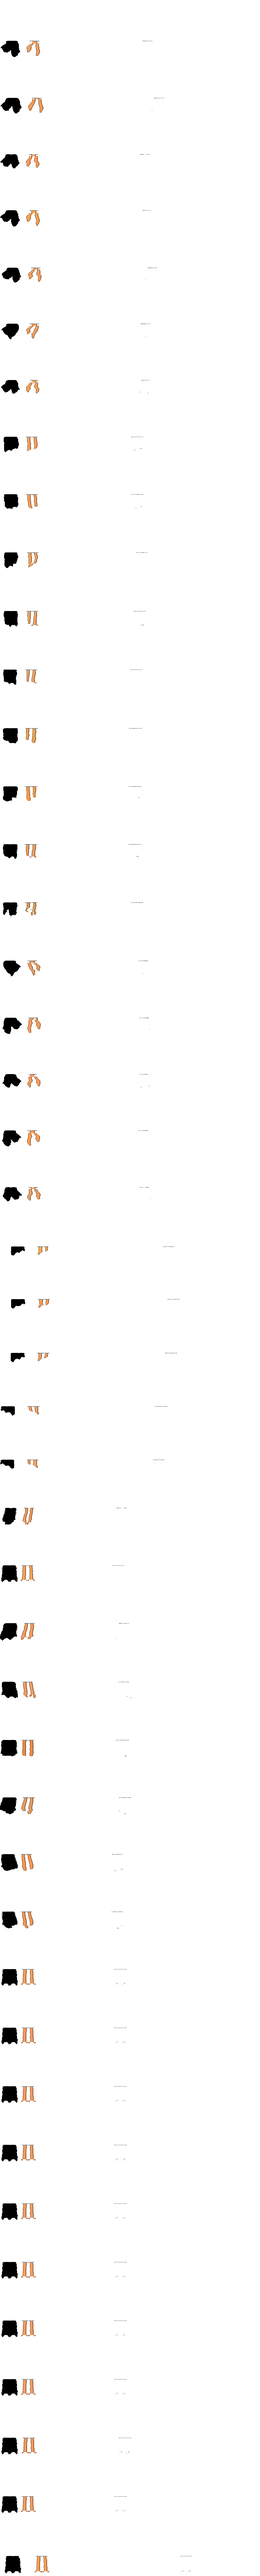
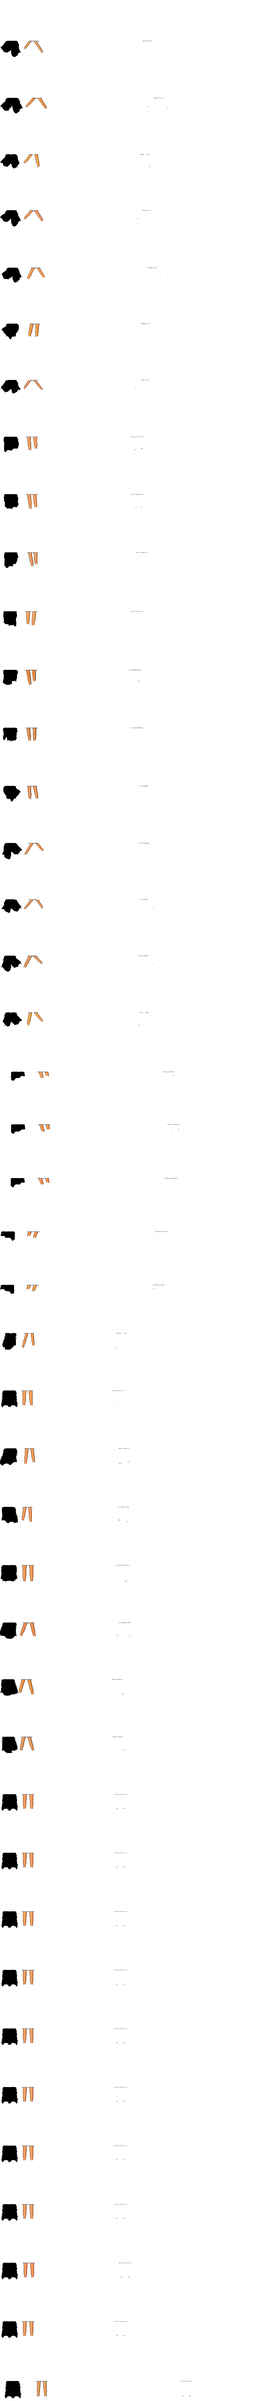
Realistiske event-møbler og nye ben

diff --git a/js/garderobe-stor.js b/js/garderobe-stor.js
@@ -12,8 +12,8 @@
 // =============================================================
 (function () {
   if (typeof FIGURER === "undefined" || !FIGURER.pige || !FIGURER.dreng) return;
-  const STIL_KORT = {"pige-shorts":{"pige-gaa-hoejre-1":0,"pige-gaa-hoejre-2":156,"pige-gaa-hoejre-3":309,"pige-gaa-hoejre-4":459,"pige-gaa-hoejre-5":613,"pige-gaa-hoejre-s1":764,"pige-gaa-hoejre-s3":918,"pige-gaa-ned-1":1068,"pige-gaa-ned-2":1225,"pige-gaa-ned-3":1382,"pige-gaa-ned-4":1540,"pige-gaa-ned-5":1697,"pige-gaa-op-1":1854,"pige-gaa-op-2":2011,"pige-gaa-op-3":2168,"pige-gaa-op-4":2325,"pige-gaa-venstre-1":2482,"pige-gaa-venstre-2":2636,"pige-gaa-venstre-3":2790,"pige-gaa-venstre-4":2940,"pige-gaa-venstre-s3":3095,"pige-sidder-hoejre":3245,"pige-sidder-ned":3388,"pige-sidder-ned-hoejre":3532,"pige-sidder-ned-venstre":3676,"pige-sidder-venstre":3820,"pige-staa-hoejre":3963,"pige-staa-ned":4117,"pige-staa-ned-hoejre":4274,"pige-staa-ned-venstre":4431,"pige-staa-op":4588,"pige-staa-op-hoejre":4743,"pige-staa-op-venstre":4897,"pige-staa-venstre":5051,"pige-udtryk-blink":5205,"pige-udtryk-flirt":5363,"pige-udtryk-glad":5521,"pige-udtryk-grin":5679,"pige-udtryk-ked":5837,"pige-udtryk-neutral":5995,"pige-udtryk-overrasket":6153,"pige-udtryk-smil":6311,"pige-udtryk-traet":6469,"pige-udtryk-vred":6627,"pige-vink":6785},"pige-nederdel":{"pige-gaa-hoejre-1":0,"pige-gaa-hoejre-2":156,"pige-gaa-hoejre-3":309,"pige-gaa-hoejre-4":459,"pige-gaa-hoejre-5":613,"pige-gaa-hoejre-s1":764,"pige-gaa-hoejre-s3":918,"pige-gaa-ned-1":1068,"pige-gaa-ned-2":1225,"pige-gaa-ned-3":1382,"pige-gaa-ned-4":1540,"pige-gaa-ned-5":1697,"pige-gaa-op-1":1854,"pige-gaa-op-2":2011,"pige-gaa-op-3":2168,"pige-gaa-op-4":2325,"pige-gaa-venstre-1":2482,"pige-gaa-venstre-2":2636,"pige-gaa-venstre-3":2790,"pige-gaa-venstre-4":2940,"pige-gaa-venstre-s3":3095,"pige-sidder-hoejre":3245,"pige-sidder-ned":3388,"pige-sidder-ned-hoejre":3532,"pige-sidder-ned-venstre":3676,"pige-sidder-venstre":3820,"pige-staa-hoejre":3963,"pige-staa-ned":4117,"pige-staa-ned-hoejre":4274,"pige-staa-ned-venstre":4431,"pige-staa-op":4588,"pige-staa-op-hoejre":4743,"pige-staa-op-venstre":4897,"pige-staa-venstre":5051,"pige-udtryk-blink":5205,"pige-udtryk-flirt":5363,"pige-udtryk-glad":5521,"pige-udtryk-grin":5679,"pige-udtryk-ked":5837,"pige-udtryk-neutral":5995,"pige-udtryk-overrasket":6153,"pige-udtryk-smil":6311,"pige-udtryk-traet":6469,"pige-udtryk-vred":6627,"pige-vink":6785},"pige-kjole":{"pige-gaa-hoejre-1":0,"pige-gaa-hoejre-2":156,"pige-gaa-hoejre-3":309,"pige-gaa-hoejre-4":459,"pige-gaa-hoejre-5":613,"pige-gaa-hoejre-s1":764,"pige-gaa-hoejre-s3":918,"pige-gaa-ned-1":1068,"pige-gaa-ned-2":1225,"pige-gaa-ned-3":1382,"pige-gaa-ned-4":1540,"pige-gaa-ned-5":1697,"pige-gaa-op-1":1854,"pige-gaa-op-2":2011,"pige-gaa-op-3":2168,"pige-gaa-op-4":2325,"pige-gaa-venstre-1":2482,"pige-gaa-venstre-2":2636,"pige-gaa-venstre-3":2790,"pige-gaa-venstre-4":2940,"pige-gaa-venstre-s3":3095,"pige-sidder-hoejre":3245,"pige-sidder-ned":3388,"pige-sidder-ned-hoejre":3532,"pige-sidder-ned-venstre":3676,"pige-sidder-venstre":3820,"pige-staa-hoejre":3963,"pige-staa-ned":4117,"pige-staa-ned-hoejre":4274,"pige-staa-ned-venstre":4431,"pige-staa-op":4588,"pige-staa-op-hoejre":4743,"pige-staa-op-venstre":4897,"pige-staa-venstre":5051,"pige-udtryk-blink":5205,"pige-udtryk-flirt":5363,"pige-udtryk-glad":5521,"pige-udtryk-grin":5679,"pige-udtryk-ked":5837,"pige-udtryk-neutral":5995,"pige-udtryk-overrasket":6153,"pige-udtryk-smil":6311,"pige-udtryk-traet":6469,"pige-udtryk-vred":6627,"pige-vink":6785},"pige-ekstralangt":{"pige-gaa-hoejre-1":0,"pige-gaa-hoejre-2":156,"pige-gaa-hoejre-3":309,"pige-gaa-hoejre-4":459,"pige-gaa-hoejre-5":613,"pige-gaa-hoejre-s1":764,"pige-gaa-hoejre-s3":918,"pige-gaa-ned-1":1068,"pige-gaa-ned-2":1225,"pige-gaa-ned-3":1382,"pige-gaa-ned-4":1540,"pige-gaa-ned-5":1697,"pige-gaa-op-1":1854,"pige-gaa-op-2":2011,"pige-gaa-op-3":2168,"pige-gaa-op-4":2325,"pige-gaa-venstre-1":2482,"pige-gaa-venstre-2":2636,"pige-gaa-venstre-3":2790,"pige-gaa-venstre-4":2940,"pige-gaa-venstre-s3":3095,"pige-sidder-hoejre":3245,"pige-sidder-ned":3388,"pige-sidder-ned-hoejre":3532,"pige-sidder-ned-venstre":3676,"pige-sidder-venstre":3820,"pige-staa-hoejre":3963,"pige-staa-ned":4117,"pige-staa-ned-hoejre":4274,"pige-staa-ned-venstre":4431,"pige-staa-op":4588,"pige-staa-op-hoejre":4743,"pige-staa-op-venstre":4897,"pige-staa-venstre":5051,"pige-udtryk-blink":5205,"pige-udtryk-flirt":5363,"pige-udtryk-glad":5521,"pige-udtryk-grin":5679,"pige-udtryk-ked":5837,"pige-udtryk-neutral":5995,"pige-udtryk-overrasket":6153,"pige-udtryk-smil":6311,"pige-udtryk-traet":6469,"pige-udtryk-vred":6627,"pige-vink":6785},"pige-mellem":{"pige-gaa-hoejre-1":0,"pige-gaa-hoejre-2":156,"pige-gaa-hoejre-3":309,"pige-gaa-hoejre-4":459,"pige-gaa-hoejre-5":613,"pige-gaa-hoejre-s1":764,"pige-gaa-hoejre-s3":918,"pige-gaa-ned-1":1068,"pige-gaa-ned-2":1225,"pige-gaa-ned-3":1382,"pige-gaa-ned-4":1540,"pige-gaa-ned-5":1697,"pige-gaa-op-1":1854,"pige-gaa-op-2":2011,"pige-gaa-op-3":2168,"pige-gaa-op-4":2325,"pige-gaa-venstre-1":2482,"pige-gaa-venstre-2":2636,"pige-gaa-venstre-3":2790,"pige-gaa-venstre-4":2940,"pige-gaa-venstre-s3":3095,"pige-sidder-hoejre":3245,"pige-sidder-ned":3388,"pige-sidder-ned-hoejre":3532,"pige-sidder-ned-venstre":3676,"pige-sidder-venstre":3820,"pige-staa-hoejre":3963,"pige-staa-ned":4117,"pige-staa-ned-hoejre":4274,"pige-staa-ned-venstre":4431,"pige-staa-op":4588,"pige-staa-op-hoejre":4743,"pige-staa-op-venstre":4897,"pige-staa-venstre":5051,"pige-udtryk-blink":5205,"pige-udtryk-flirt":5363,"pige-udtryk-glad":5521,"pige-udtryk-grin":5679,"pige-udtryk-ked":5837,"pige-udtryk-neutral":5995,"pige-udtryk-overrasket":6153,"pige-udtryk-smil":6311,"pige-udtryk-traet":6469,"pige-udtryk-vred":6627,"pige-vink":6785},"pige-skulder":{"pige-gaa-hoejre-1":0,"pige-gaa-hoejre-2":156,"pige-gaa-hoejre-3":309,"pige-gaa-hoejre-4":459,"pige-gaa-hoejre-5":613,"pige-gaa-hoejre-s1":764,"pige-gaa-hoejre-s3":918,"pige-gaa-ned-1":1068,"pige-gaa-ned-2":1225,"pige-gaa-ned-3":1382,"pige-gaa-ned-4":1540,"pige-gaa-ned-5":1697,"pige-gaa-op-1":1854,"pige-gaa-op-2":2011,"pige-gaa-op-3":2168,"pige-gaa-op-4":2325,"pige-gaa-venstre-1":2482,"pige-gaa-venstre-2":2636,"pige-gaa-venstre-3":2790,"pige-gaa-venstre-4":2940,"pige-gaa-venstre-s3":3095,"pige-sidder-hoejre":3245,"pige-sidder-ned":3388,"pige-sidder-ned-hoejre":3532,"pige-sidder-ned-venstre":3676,"pige-sidder-venstre":3820,"pige-staa-hoejre":3963,"pige-staa-ned":4117,"pige-staa-ned-hoejre":4274,"pige-staa-ned-venstre":4431,"pige-staa-op":4588,"pige-staa-op-hoejre":4743,"pige-staa-op-venstre":4897,"pige-staa-venstre":5051,"pige-udtryk-blink":5205,"pige-udtryk-flirt":5363,"pige-udtryk-glad":5521,"pige-udtryk-grin":5679,"pige-udtryk-ked":5837,"pige-udtryk-neutral":5995,"pige-udtryk-overrasket":6153,"pige-udtryk-smil":6311,"pige-udtryk-traet":6469,"pige-udtryk-vred":6627,"pige-vink":6785},"pige-bob":{"pige-gaa-hoejre-1":0,"pige-gaa-hoejre-2":156,"pige-gaa-hoejre-3":309,"pige-gaa-hoejre-4":459,"pige-gaa-hoejre-5":613,"pige-gaa-hoejre-s1":764,"pige-gaa-hoejre-s3":918,"pige-gaa-ned-1":1068,"pige-gaa-ned-2":1225,"pige-gaa-ned-3":1382,"pige-gaa-ned-4":1540,"pige-gaa-ned-5":1697,"pige-gaa-op-1":1854,"pige-gaa-op-2":2011,"pige-gaa-op-3":2168,"pige-gaa-op-4":2325,"pige-gaa-venstre-1":2482,"pige-gaa-venstre-2":2636,"pige-gaa-venstre-3":2790,"pige-gaa-venstre-4":2940,"pige-gaa-venstre-s3":3095,"pige-sidder-hoejre":3245,"pige-sidder-ned":3388,"pige-sidder-ned-hoejre":3532,"pige-sidder-ned-venstre":3676,"pige-sidder-venstre":3820,"pige-staa-hoejre":3963,"pige-staa-ned":4117,"pige-staa-ned-hoejre":4274,"pige-staa-ned-venstre":4431,"pige-staa-op":4588,"pige-staa-op-hoejre":4743,"pige-staa-op-venstre":4897,"pige-staa-venstre":5051,"pige-udtryk-blink":5205,"pige-udtryk-flirt":5363,"pige-udtryk-glad":5521,"pige-udtryk-grin":5679,"pige-udtryk-ked":5837,"pige-udtryk-neutral":5995,"pige-udtryk-overrasket":6153,"pige-udtryk-smil":6311,"pige-udtryk-traet":6469,"pige-udtryk-vred":6627,"pige-vink":6785},"pige-hestehale":{"pige-gaa-hoejre-1":0,"pige-gaa-hoejre-2":156,"pige-gaa-hoejre-3":309,"pige-gaa-hoejre-4":459,"pige-gaa-hoejre-5":613,"pige-gaa-hoejre-s1":764,"pige-gaa-hoejre-s3":918,"pige-gaa-ned-1":1068,"pige-gaa-ned-2":1225,"pige-gaa-ned-3":1382,"pige-gaa-ned-4":1540,"pige-gaa-ned-5":1697,"pige-gaa-op-1":1854,"pige-gaa-op-2":2011,"pige-gaa-op-3":2168,"pige-gaa-op-4":2325,"pige-gaa-venstre-1":2482,"pige-gaa-venstre-2":2636,"pige-gaa-venstre-3":2790,"pige-gaa-venstre-4":2940,"pige-gaa-venstre-s3":3095,"pige-sidder-hoejre":3245,"pige-sidder-ned":3388,"pige-sidder-ned-hoejre":3532,"pige-sidder-ned-venstre":3676,"pige-sidder-venstre":3820,"pige-staa-hoejre":3963,"pige-staa-ned":4117,"pige-staa-ned-hoejre":4274,"pige-staa-ned-venstre":4431,"pige-staa-op":4588,"pige-staa-op-hoejre":4743,"pige-staa-op-venstre":4897,"pige-staa-venstre":5051,"pige-udtryk-blink":5205,"pige-udtryk-flirt":5363,"pige-udtryk-glad":5521,"pige-udtryk-grin":5679,"pige-udtryk-ked":5837,"pige-udtryk-neutral":5995,"pige-udtryk-overrasket":6153,"pige-udtryk-smil":6311,"pige-udtryk-traet":6469,"pige-udtryk-vred":6627,"pige-vink":6785},"pige-fletninger":{"pige-gaa-hoejre-1":0,"pige-gaa-hoejre-2":156,"pige-gaa-hoejre-3":309,"pige-gaa-hoejre-4":459,"pige-gaa-hoejre-5":613,"pige-gaa-hoejre-s1":764,"pige-gaa-hoejre-s3":918,"pige-gaa-ned-1":1068,"pige-gaa-ned-2":1225,"pige-gaa-ned-3":1382,"pige-gaa-ned-4":1540,"pige-gaa-ned-5":1697,"pige-gaa-op-1":1854,"pige-gaa-op-2":2011,"pige-gaa-op-3":2168,"pige-gaa-op-4":2325,"pige-gaa-venstre-1":2482,"pige-gaa-venstre-2":2636,"pige-gaa-venstre-3":2790,"pige-gaa-venstre-4":2940,"pige-gaa-venstre-s3":3095,"pige-sidder-hoejre":3245,"pige-sidder-ned":3388,"pige-sidder-ned-hoejre":3532,"pige-sidder-ned-venstre":3676,"pige-sidder-venstre":3820,"pige-staa-hoejre":3963,"pige-staa-ned":4117,"pige-staa-ned-hoejre":4274,"pige-staa-ned-venstre":4431,"pige-staa-op":4588,"pige-staa-op-hoejre":4743,"pige-staa-op-venstre":4897,"pige-staa-venstre":5051,"pige-udtryk-blink":5205,"pige-udtryk-flirt":5363,"pige-udtryk-glad":5521,"pige-udtryk-grin":5679,"pige-udtryk-ked":5837,"pige-udtryk-neutral":5995,"pige-udtryk-overrasket":6153,"pige-udtryk-smil":6311,"pige-udtryk-traet":6469,"pige-udtryk-vred":6627,"pige-vink":6785},"dreng-haar":{"dreng-gaa-hoejre-1":0,"dreng-gaa-hoejre-2":131,"dreng-gaa-hoejre-3":262,"dreng-gaa-hoejre-4":392,"dreng-gaa-hoejre-5":522,"dreng-gaa-hoejre-s1":652,"dreng-gaa-hoejre-s2":783,"dreng-gaa-ned-1":913,"dreng-gaa-ned-2":1048,"dreng-gaa-ned-3":1183,"dreng-gaa-ned-4":1318,"dreng-gaa-ned-5":1453,"dreng-gaa-op-1":1588,"dreng-gaa-op-2":1722,"dreng-gaa-op-3":1856,"dreng-gaa-op-4":1988,"dreng-gaa-op-5":2122,"dreng-gaa-op-s4":2256,"dreng-gaa-venstre-1":2390,"dreng-gaa-venstre-2":2521,"dreng-gaa-venstre-3":2651,"dreng-gaa-venstre-4":2781,"dreng-gaa-venstre-s2":2911,"dreng-sidder-ned-hoejre":3042,"dreng-sidder-ned-venstre":3181,"dreng-staa-hoejre":3320,"dreng-staa-ned":3452,"dreng-staa-ned-hoejre":3587,"dreng-staa-ned-venstre":3721,"dreng-staa-op":3856,"dreng-staa-op-hoejre":3989,"dreng-staa-op-venstre":4122,"dreng-staa-venstre":4255,"dreng-udtryk-blink":4388,"dreng-udtryk-flirt":4522,"dreng-udtryk-glad":4656,"dreng-udtryk-grin":4790,"dreng-udtryk-ked":4924,"dreng-udtryk-neutral":5058,"dreng-udtryk-overrasket":5192,"dreng-udtryk-smil":5326,"dreng-udtryk-traet":5460,"dreng-udtryk-vred":5594},"dreng-shorts":{"dreng-gaa-hoejre-1":0,"dreng-gaa-hoejre-2":131,"dreng-gaa-hoejre-3":262,"dreng-gaa-hoejre-4":392,"dreng-gaa-hoejre-5":522,"dreng-gaa-hoejre-s1":652,"dreng-gaa-hoejre-s2":783,"dreng-gaa-ned-1":913,"dreng-gaa-ned-2":1048,"dreng-gaa-ned-3":1183,"dreng-gaa-ned-4":1318,"dreng-gaa-ned-5":1453,"dreng-gaa-op-1":1588,"dreng-gaa-op-2":1722,"dreng-gaa-op-3":1856,"dreng-gaa-op-4":1988,"dreng-gaa-op-5":2122,"dreng-gaa-op-s4":2256,"dreng-gaa-venstre-1":2390,"dreng-gaa-venstre-2":2521,"dreng-gaa-venstre-3":2651,"dreng-gaa-venstre-4":2781,"dreng-gaa-venstre-s2":2911,"dreng-sidder-ned-hoejre":3042,"dreng-sidder-ned-venstre":3181,"dreng-staa-hoejre":3320,"dreng-staa-ned":3452,"dreng-staa-ned-hoejre":3587,"dreng-staa-ned-venstre":3721,"dreng-staa-op":3856,"dreng-staa-op-hoejre":3989,"dreng-staa-op-venstre":4122,"dreng-staa-venstre":4255,"dreng-udtryk-blink":4388,"dreng-udtryk-flirt":4522,"dreng-udtryk-glad":4656,"dreng-udtryk-grin":4790,"dreng-udtryk-ked":4924,"dreng-udtryk-neutral":5058,"dreng-udtryk-overrasket":5192,"dreng-udtryk-smil":5326,"dreng-udtryk-traet":5460,"dreng-udtryk-vred":5594},"dreng-halvlangt":{"dreng-staa-ned":0,"dreng-staa-ned-hoejre":135,"dreng-staa-ned-venstre":269,"dreng-udtryk-blink":404,"dreng-udtryk-flirt":538,"dreng-udtryk-glad":672,"dreng-udtryk-grin":806,"dreng-udtryk-ked":940,"dreng-udtryk-neutral":1074,"dreng-udtryk-overrasket":1208,"dreng-udtryk-smil":1342,"dreng-udtryk-traet":1476,"dreng-udtryk-vred":1610},"dreng-langt":{"dreng-gaa-hoejre-1":0,"dreng-gaa-hoejre-2":131,"dreng-gaa-hoejre-3":262,"dreng-gaa-hoejre-4":392,"dreng-gaa-hoejre-5":522,"dreng-gaa-hoejre-s1":652,"dreng-gaa-hoejre-s2":783,"dreng-gaa-ned-1":913,"dreng-gaa-ned-2":1048,"dreng-gaa-ned-3":1183,"dreng-gaa-ned-4":1318,"dreng-gaa-ned-5":1453,"dreng-gaa-op-1":1588,"dreng-gaa-op-2":1722,"dreng-gaa-op-3":1856,"dreng-gaa-op-4":1988,"dreng-gaa-op-5":2122,"dreng-gaa-op-s4":2256,"dreng-gaa-venstre-1":2390,"dreng-gaa-venstre-2":2521,"dreng-gaa-venstre-3":2651,"dreng-gaa-venstre-4":2781,"dreng-gaa-venstre-s2":2911,"dreng-sidder-ned-hoejre":3042,"dreng-sidder-ned-venstre":3181,"dreng-staa-hoejre":3320,"dreng-staa-ned":3452,"dreng-staa-ned-hoejre":3587,"dreng-staa-ned-venstre":3721,"dreng-staa-op":3856,"dreng-staa-op-hoejre":3989,"dreng-staa-op-venstre":4122,"dreng-staa-venstre":4255,"dreng-udtryk-blink":4388,"dreng-udtryk-flirt":4522,"dreng-udtryk-glad":4656,"dreng-udtryk-grin":4790,"dreng-udtryk-ked":4924,"dreng-udtryk-neutral":5058,"dreng-udtryk-overrasket":5192,"dreng-udtryk-smil":5326,"dreng-udtryk-traet":5460,"dreng-udtryk-vred":5594}};
-  const STIL_V = "1";
+  const STIL_KORT = {"pige-shorts":{"pige-gaa-hoejre-1":0,"pige-gaa-hoejre-2":156,"pige-gaa-hoejre-3":309,"pige-gaa-hoejre-4":459,"pige-gaa-hoejre-5":613,"pige-gaa-hoejre-s1":764,"pige-gaa-hoejre-s3":918,"pige-gaa-ned-1":1068,"pige-gaa-ned-2":1225,"pige-gaa-ned-3":1382,"pige-gaa-ned-5":1540,"pige-gaa-op-2":1697,"pige-gaa-op-4":1854,"pige-gaa-venstre-1":2011,"pige-gaa-venstre-2":2165,"pige-gaa-venstre-3":2319,"pige-gaa-venstre-4":2469,"pige-gaa-venstre-s3":2624,"pige-sidder-hoejre":2774,"pige-sidder-ned":2917,"pige-sidder-ned-hoejre":3061,"pige-sidder-ned-venstre":3205,"pige-sidder-venstre":3349,"pige-staa-hoejre":3492,"pige-staa-ned":3646,"pige-staa-ned-hoejre":3803,"pige-staa-ned-venstre":3960,"pige-staa-op":4117,"pige-staa-op-hoejre":4272,"pige-staa-op-venstre":4426,"pige-staa-venstre":4580,"pige-udtryk-blink":4734,"pige-udtryk-flirt":4892,"pige-udtryk-glad":5050,"pige-udtryk-grin":5208,"pige-udtryk-ked":5366,"pige-udtryk-neutral":5524,"pige-udtryk-overrasket":5682,"pige-udtryk-smil":5840,"pige-udtryk-traet":5998,"pige-udtryk-vred":6156,"pige-vink":6314},"pige-nederdel":{"pige-gaa-hoejre-1":0,"pige-gaa-hoejre-2":156,"pige-gaa-hoejre-3":309,"pige-gaa-hoejre-4":459,"pige-gaa-hoejre-5":613,"pige-gaa-hoejre-s1":764,"pige-gaa-hoejre-s3":918,"pige-gaa-ned-1":1068,"pige-gaa-ned-2":1225,"pige-gaa-ned-3":1382,"pige-gaa-ned-5":1540,"pige-gaa-op-2":1697,"pige-gaa-op-4":1854,"pige-gaa-venstre-1":2011,"pige-gaa-venstre-2":2165,"pige-gaa-venstre-3":2319,"pige-gaa-venstre-4":2469,"pige-gaa-venstre-s3":2624,"pige-sidder-hoejre":2774,"pige-sidder-ned":2917,"pige-sidder-ned-hoejre":3061,"pige-sidder-ned-venstre":3205,"pige-sidder-venstre":3349,"pige-staa-hoejre":3492,"pige-staa-ned":3646,"pige-staa-ned-hoejre":3803,"pige-staa-ned-venstre":3960,"pige-staa-op":4117,"pige-staa-op-hoejre":4272,"pige-staa-op-venstre":4426,"pige-staa-venstre":4580,"pige-udtryk-blink":4734,"pige-udtryk-flirt":4892,"pige-udtryk-glad":5050,"pige-udtryk-grin":5208,"pige-udtryk-ked":5366,"pige-udtryk-neutral":5524,"pige-udtryk-overrasket":5682,"pige-udtryk-smil":5840,"pige-udtryk-traet":5998,"pige-udtryk-vred":6156,"pige-vink":6314},"pige-kjole":{"pige-gaa-hoejre-1":0,"pige-gaa-hoejre-2":156,"pige-gaa-hoejre-3":309,"pige-gaa-hoejre-4":459,"pige-gaa-hoejre-5":613,"pige-gaa-hoejre-s1":764,"pige-gaa-hoejre-s3":918,"pige-gaa-ned-1":1068,"pige-gaa-ned-2":1225,"pige-gaa-ned-3":1382,"pige-gaa-ned-5":1540,"pige-gaa-op-2":1697,"pige-gaa-op-4":1854,"pige-gaa-venstre-1":2011,"pige-gaa-venstre-2":2165,"pige-gaa-venstre-3":2319,"pige-gaa-venstre-4":2469,"pige-gaa-venstre-s3":2624,"pige-sidder-hoejre":2774,"pige-sidder-ned":2917,"pige-sidder-ned-hoejre":3061,"pige-sidder-ned-venstre":3205,"pige-sidder-venstre":3349,"pige-staa-hoejre":3492,"pige-staa-ned":3646,"pige-staa-ned-hoejre":3803,"pige-staa-ned-venstre":3960,"pige-staa-op":4117,"pige-staa-op-hoejre":4272,"pige-staa-op-venstre":4426,"pige-staa-venstre":4580,"pige-udtryk-blink":4734,"pige-udtryk-flirt":4892,"pige-udtryk-glad":5050,"pige-udtryk-grin":5208,"pige-udtryk-ked":5366,"pige-udtryk-neutral":5524,"pige-udtryk-overrasket":5682,"pige-udtryk-smil":5840,"pige-udtryk-traet":5998,"pige-udtryk-vred":6156,"pige-vink":6314},"pige-ekstralangt":{"pige-gaa-hoejre-1":0,"pige-gaa-hoejre-2":156,"pige-gaa-hoejre-3":309,"pige-gaa-hoejre-4":459,"pige-gaa-hoejre-5":613,"pige-gaa-hoejre-s1":764,"pige-gaa-hoejre-s3":918,"pige-gaa-ned-1":1068,"pige-gaa-ned-2":1225,"pige-gaa-ned-3":1382,"pige-gaa-ned-4":1540,"pige-gaa-ned-5":1697,"pige-gaa-op-1":1854,"pige-gaa-op-2":2011,"pige-gaa-op-3":2168,"pige-gaa-op-4":2325,"pige-gaa-venstre-1":2482,"pige-gaa-venstre-2":2636,"pige-gaa-venstre-3":2790,"pige-gaa-venstre-4":2940,"pige-gaa-venstre-s3":3095,"pige-sidder-hoejre":3245,"pige-sidder-ned":3388,"pige-sidder-ned-hoejre":3532,"pige-sidder-ned-venstre":3676,"pige-sidder-venstre":3820,"pige-staa-hoejre":3963,"pige-staa-ned":4117,"pige-staa-ned-hoejre":4274,"pige-staa-ned-venstre":4431,"pige-staa-op":4588,"pige-staa-op-hoejre":4743,"pige-staa-op-venstre":4897,"pige-staa-venstre":5051,"pige-udtryk-blink":5205,"pige-udtryk-flirt":5363,"pige-udtryk-glad":5521,"pige-udtryk-grin":5679,"pige-udtryk-ked":5837,"pige-udtryk-neutral":5995,"pige-udtryk-overrasket":6153,"pige-udtryk-smil":6311,"pige-udtryk-traet":6469,"pige-udtryk-vred":6627,"pige-vink":6785},"pige-mellem":{"pige-gaa-hoejre-1":0,"pige-gaa-hoejre-2":156,"pige-gaa-hoejre-3":309,"pige-gaa-hoejre-4":459,"pige-gaa-hoejre-5":613,"pige-gaa-hoejre-s1":764,"pige-gaa-hoejre-s3":918,"pige-gaa-ned-1":1068,"pige-gaa-ned-2":1225,"pige-gaa-ned-3":1382,"pige-gaa-ned-4":1540,"pige-gaa-ned-5":1697,"pige-gaa-op-1":1854,"pige-gaa-op-2":2011,"pige-gaa-op-3":2168,"pige-gaa-op-4":2325,"pige-gaa-venstre-1":2482,"pige-gaa-venstre-2":2636,"pige-gaa-venstre-3":2790,"pige-gaa-venstre-4":2940,"pige-gaa-venstre-s3":3095,"pige-sidder-hoejre":3245,"pige-sidder-ned":3388,"pige-sidder-ned-hoejre":3532,"pige-sidder-ned-venstre":3676,"pige-sidder-venstre":3820,"pige-staa-hoejre":3963,"pige-staa-ned":4117,"pige-staa-ned-hoejre":4274,"pige-staa-ned-venstre":4431,"pige-staa-op":4588,"pige-staa-op-hoejre":4743,"pige-staa-op-venstre":4897,"pige-staa-venstre":5051,"pige-udtryk-blink":5205,"pige-udtryk-flirt":5363,"pige-udtryk-glad":5521,"pige-udtryk-grin":5679,"pige-udtryk-ked":5837,"pige-udtryk-neutral":5995,"pige-udtryk-overrasket":6153,"pige-udtryk-smil":6311,"pige-udtryk-traet":6469,"pige-udtryk-vred":6627,"pige-vink":6785},"pige-skulder":{"pige-gaa-hoejre-1":0,"pige-gaa-hoejre-2":156,"pige-gaa-hoejre-3":309,"pige-gaa-hoejre-4":459,"pige-gaa-hoejre-5":613,"pige-gaa-hoejre-s1":764,"pige-gaa-hoejre-s3":918,"pige-gaa-ned-1":1068,"pige-gaa-ned-2":1225,"pige-gaa-ned-3":1382,"pige-gaa-ned-4":1540,"pige-gaa-ned-5":1697,"pige-gaa-op-1":1854,"pige-gaa-op-2":2011,"pige-gaa-op-3":2168,"pige-gaa-op-4":2325,"pige-gaa-venstre-1":2482,"pige-gaa-venstre-2":2636,"pige-gaa-venstre-3":2790,"pige-gaa-venstre-4":2940,"pige-gaa-venstre-s3":3095,"pige-sidder-hoejre":3245,"pige-sidder-ned":3388,"pige-sidder-ned-hoejre":3532,"pige-sidder-ned-venstre":3676,"pige-sidder-venstre":3820,"pige-staa-hoejre":3963,"pige-staa-ned":4117,"pige-staa-ned-hoejre":4274,"pige-staa-ned-venstre":4431,"pige-staa-op":4588,"pige-staa-op-hoejre":4743,"pige-staa-op-venstre":4897,"pige-staa-venstre":5051,"pige-udtryk-blink":5205,"pige-udtryk-flirt":5363,"pige-udtryk-glad":5521,"pige-udtryk-grin":5679,"pige-udtryk-ked":5837,"pige-udtryk-neutral":5995,"pige-udtryk-overrasket":6153,"pige-udtryk-smil":6311,"pige-udtryk-traet":6469,"pige-udtryk-vred":6627,"pige-vink":6785},"pige-bob":{"pige-gaa-hoejre-1":0,"pige-gaa-hoejre-2":156,"pige-gaa-hoejre-3":309,"pige-gaa-hoejre-4":459,"pige-gaa-hoejre-5":613,"pige-gaa-hoejre-s1":764,"pige-gaa-hoejre-s3":918,"pige-gaa-ned-1":1068,"pige-gaa-ned-2":1225,"pige-gaa-ned-3":1382,"pige-gaa-ned-4":1540,"pige-gaa-ned-5":1697,"pige-gaa-op-1":1854,"pige-gaa-op-2":2011,"pige-gaa-op-3":2168,"pige-gaa-op-4":2325,"pige-gaa-venstre-1":2482,"pige-gaa-venstre-2":2636,"pige-gaa-venstre-3":2790,"pige-gaa-venstre-4":2940,"pige-gaa-venstre-s3":3095,"pige-sidder-hoejre":3245,"pige-sidder-ned":3388,"pige-sidder-ned-hoejre":3532,"pige-sidder-ned-venstre":3676,"pige-sidder-venstre":3820,"pige-staa-hoejre":3963,"pige-staa-ned":4117,"pige-staa-ned-hoejre":4274,"pige-staa-ned-venstre":4431,"pige-staa-op":4588,"pige-staa-op-hoejre":4743,"pige-staa-op-venstre":4897,"pige-staa-venstre":5051,"pige-udtryk-blink":5205,"pige-udtryk-flirt":5363,"pige-udtryk-glad":5521,"pige-udtryk-grin":5679,"pige-udtryk-ked":5837,"pige-udtryk-neutral":5995,"pige-udtryk-overrasket":6153,"pige-udtryk-smil":6311,"pige-udtryk-traet":6469,"pige-udtryk-vred":6627,"pige-vink":6785},"pige-hestehale":{"pige-gaa-hoejre-1":0,"pige-gaa-hoejre-2":156,"pige-gaa-hoejre-3":309,"pige-gaa-hoejre-4":459,"pige-gaa-hoejre-5":613,"pige-gaa-hoejre-s1":764,"pige-gaa-hoejre-s3":918,"pige-gaa-ned-1":1068,"pige-gaa-ned-2":1225,"pige-gaa-ned-3":1382,"pige-gaa-ned-4":1540,"pige-gaa-ned-5":1697,"pige-gaa-op-1":1854,"pige-gaa-op-2":2011,"pige-gaa-op-3":2168,"pige-gaa-op-4":2325,"pige-gaa-venstre-1":2482,"pige-gaa-venstre-2":2636,"pige-gaa-venstre-3":2790,"pige-gaa-venstre-4":2940,"pige-gaa-venstre-s3":3095,"pige-sidder-hoejre":3245,"pige-sidder-ned":3388,"pige-sidder-ned-hoejre":3532,"pige-sidder-ned-venstre":3676,"pige-sidder-venstre":3820,"pige-staa-hoejre":3963,"pige-staa-ned":4117,"pige-staa-ned-hoejre":4274,"pige-staa-ned-venstre":4431,"pige-staa-op":4588,"pige-staa-op-hoejre":4743,"pige-staa-op-venstre":4897,"pige-staa-venstre":5051,"pige-udtryk-blink":5205,"pige-udtryk-flirt":5363,"pige-udtryk-glad":5521,"pige-udtryk-grin":5679,"pige-udtryk-ked":5837,"pige-udtryk-neutral":5995,"pige-udtryk-overrasket":6153,"pige-udtryk-smil":6311,"pige-udtryk-traet":6469,"pige-udtryk-vred":6627,"pige-vink":6785},"pige-fletninger":{"pige-gaa-hoejre-1":0,"pige-gaa-hoejre-2":156,"pige-gaa-hoejre-3":309,"pige-gaa-hoejre-4":459,"pige-gaa-hoejre-5":613,"pige-gaa-hoejre-s1":764,"pige-gaa-hoejre-s3":918,"pige-gaa-ned-1":1068,"pige-gaa-ned-2":1225,"pige-gaa-ned-3":1382,"pige-gaa-ned-4":1540,"pige-gaa-ned-5":1697,"pige-gaa-op-1":1854,"pige-gaa-op-2":2011,"pige-gaa-op-3":2168,"pige-gaa-op-4":2325,"pige-gaa-venstre-1":2482,"pige-gaa-venstre-2":2636,"pige-gaa-venstre-3":2790,"pige-gaa-venstre-4":2940,"pige-gaa-venstre-s3":3095,"pige-sidder-hoejre":3245,"pige-sidder-ned":3388,"pige-sidder-ned-hoejre":3532,"pige-sidder-ned-venstre":3676,"pige-sidder-venstre":3820,"pige-staa-hoejre":3963,"pige-staa-ned":4117,"pige-staa-ned-hoejre":4274,"pige-staa-ned-venstre":4431,"pige-staa-op":4588,"pige-staa-op-hoejre":4743,"pige-staa-op-venstre":4897,"pige-staa-venstre":5051,"pige-udtryk-blink":5205,"pige-udtryk-flirt":5363,"pige-udtryk-glad":5521,"pige-udtryk-grin":5679,"pige-udtryk-ked":5837,"pige-udtryk-neutral":5995,"pige-udtryk-overrasket":6153,"pige-udtryk-smil":6311,"pige-udtryk-traet":6469,"pige-udtryk-vred":6627,"pige-vink":6785},"dreng-haar":{"dreng-gaa-hoejre-1":0,"dreng-gaa-hoejre-2":131,"dreng-gaa-hoejre-3":262,"dreng-gaa-hoejre-4":392,"dreng-gaa-hoejre-5":522,"dreng-gaa-hoejre-s1":652,"dreng-gaa-hoejre-s2":783,"dreng-gaa-ned-1":913,"dreng-gaa-ned-2":1048,"dreng-gaa-ned-3":1183,"dreng-gaa-ned-4":1318,"dreng-gaa-ned-5":1453,"dreng-gaa-op-1":1588,"dreng-gaa-op-2":1722,"dreng-gaa-op-3":1856,"dreng-gaa-op-4":1988,"dreng-gaa-op-5":2122,"dreng-gaa-op-s4":2256,"dreng-gaa-venstre-1":2390,"dreng-gaa-venstre-2":2521,"dreng-gaa-venstre-3":2651,"dreng-gaa-venstre-4":2781,"dreng-gaa-venstre-s2":2911,"dreng-sidder-ned-hoejre":3042,"dreng-sidder-ned-venstre":3181,"dreng-staa-hoejre":3320,"dreng-staa-ned":3452,"dreng-staa-ned-hoejre":3587,"dreng-staa-ned-venstre":3721,"dreng-staa-op":3856,"dreng-staa-op-hoejre":3989,"dreng-staa-op-venstre":4122,"dreng-staa-venstre":4255,"dreng-udtryk-blink":4388,"dreng-udtryk-flirt":4522,"dreng-udtryk-glad":4656,"dreng-udtryk-grin":4790,"dreng-udtryk-ked":4924,"dreng-udtryk-neutral":5058,"dreng-udtryk-overrasket":5192,"dreng-udtryk-smil":5326,"dreng-udtryk-traet":5460,"dreng-udtryk-vred":5594},"dreng-shorts":{"dreng-gaa-hoejre-1":0,"dreng-gaa-hoejre-2":131,"dreng-gaa-hoejre-3":262,"dreng-gaa-hoejre-4":392,"dreng-gaa-hoejre-s1":522,"dreng-gaa-hoejre-s2":653,"dreng-gaa-ned-1":783,"dreng-gaa-ned-2":918,"dreng-gaa-ned-3":1053,"dreng-gaa-ned-4":1188,"dreng-gaa-ned-5":1323,"dreng-gaa-op-1":1458,"dreng-gaa-op-2":1592,"dreng-gaa-op-3":1726,"dreng-gaa-op-4":1858,"dreng-gaa-op-5":1992,"dreng-gaa-op-s4":2126,"dreng-gaa-venstre-1":2260,"dreng-gaa-venstre-2":2391,"dreng-gaa-venstre-3":2521,"dreng-gaa-venstre-4":2651,"dreng-gaa-venstre-s2":2781,"dreng-sidder-ned-hoejre":2912,"dreng-sidder-ned-venstre":3051,"dreng-staa-hoejre":3190,"dreng-staa-ned":3322,"dreng-staa-ned-hoejre":3457,"dreng-staa-ned-venstre":3591,"dreng-staa-op":3726,"dreng-staa-op-hoejre":3859,"dreng-staa-op-venstre":3992,"dreng-staa-venstre":4125,"dreng-udtryk-blink":4258,"dreng-udtryk-flirt":4392,"dreng-udtryk-glad":4526,"dreng-udtryk-grin":4660,"dreng-udtryk-ked":4794,"dreng-udtryk-neutral":4928,"dreng-udtryk-overrasket":5062,"dreng-udtryk-smil":5196,"dreng-udtryk-traet":5330,"dreng-udtryk-vred":5464},"dreng-halvlangt":{"dreng-staa-ned":0,"dreng-staa-ned-hoejre":135,"dreng-staa-ned-venstre":269,"dreng-udtryk-blink":404,"dreng-udtryk-flirt":538,"dreng-udtryk-glad":672,"dreng-udtryk-grin":806,"dreng-udtryk-ked":940,"dreng-udtryk-neutral":1074,"dreng-udtryk-overrasket":1208,"dreng-udtryk-smil":1342,"dreng-udtryk-traet":1476,"dreng-udtryk-vred":1610},"dreng-langt":{"dreng-gaa-hoejre-1":0,"dreng-gaa-hoejre-2":131,"dreng-gaa-hoejre-3":262,"dreng-gaa-hoejre-4":392,"dreng-gaa-hoejre-5":522,"dreng-gaa-hoejre-s1":652,"dreng-gaa-hoejre-s2":783,"dreng-gaa-ned-1":913,"dreng-gaa-ned-2":1048,"dreng-gaa-ned-3":1183,"dreng-gaa-ned-4":1318,"dreng-gaa-ned-5":1453,"dreng-gaa-op-1":1588,"dreng-gaa-op-2":1722,"dreng-gaa-op-3":1856,"dreng-gaa-op-4":1988,"dreng-gaa-op-5":2122,"dreng-gaa-op-s4":2256,"dreng-gaa-venstre-1":2390,"dreng-gaa-venstre-2":2521,"dreng-gaa-venstre-3":2651,"dreng-gaa-venstre-4":2781,"dreng-gaa-venstre-s2":2911,"dreng-sidder-ned-hoejre":3042,"dreng-sidder-ned-venstre":3181,"dreng-staa-hoejre":3320,"dreng-staa-ned":3452,"dreng-staa-ned-hoejre":3587,"dreng-staa-ned-venstre":3721,"dreng-staa-op":3856,"dreng-staa-op-hoejre":3989,"dreng-staa-op-venstre":4122,"dreng-staa-venstre":4255,"dreng-udtryk-blink":4388,"dreng-udtryk-flirt":4522,"dreng-udtryk-glad":4656,"dreng-udtryk-grin":4790,"dreng-udtryk-ked":4924,"dreng-udtryk-neutral":5058,"dreng-udtryk-overrasket":5192,"dreng-udtryk-smil":5326,"dreng-udtryk-traet":5460,"dreng-udtryk-vred":5594}};
+  const STIL_V = "2";
 
   const FORMER = {
     pige: [

diff --git a/js/staff-moebler.js b/js/staff-moebler.js
@@ -1,0 +1,163 @@
+// =============================================================
+//  🎪 Staff-møbler til events (5/11)
+//  En kategori i kataloget, som kun ansatte (alle med et staff-skilt)
+//  og hotellets ejer kan se. Møblerne er gratis for dem.
+//  - Shop → Møbler → "🎪 Staff": Gratis, kommer i Mine ting.
+//    Står du i et fælles rum (fx et event-rum) og må bygge der,
+//    kan du også trykke "🔨 Stil her" og sætte møblet direkte i rummet.
+//  - Møbelpanellet får fanen "Staff" (kun for staff og ejeren).
+//  Billederne: billeder/moebler/ev-*/ev-*-0..3.png
+//  (3D-renderet som de realistiske møbler: /mnt/project-files/staff-moebler/real/event_real.py)
+//  Hentes fra slutningen af js/panel-forklaring.js.
+// =============================================================
+const STAFF_KAT = "Staff";
+const STAFF_TYPER = [
+  { id: "ev-scene", navn: "Scene", felter: [2, 2], skala: 0.5, ankre: [[242,  323],  [242,  323],  [242,  323],  [242,  323]] },
+  { id: "ev-mikrofon", navn: "Mikrofon", skala: 0.5, ankre: [[126,  367],  [126,  367],  [126,  367],  [126,  367]] },
+  { id: "ev-hoejtaler", navn: "Højttaler", skala: 0.5, ankre: [[126,  298],  [126,  298],  [126,  298],  [126,  298]] },
+  { id: "ev-dj-pult", navn: "DJ-pult", felter: [2, 1], skala: 0.5, ankre: [[222,  369],  [126,  369],  [222,  369],  [126,  369]] },
+  { id: "ev-spotlight", navn: "Spotlight", skala: 0.5, ankre: [[126,  375],  [126,  375],  [126,  375],  [126,  375]] },
+  { id: "ev-podie", navn: "Vinderpodie 1-2-3", felter: [3, 1], skala: 0.5, ankre: [[318,  341],  [126,  341],  [318,  341],  [126,  341]] },
+  { id: "ev-loeber", navn: "Rød løber", felter: [1, 3], kanGaaPaa: true, skala: 0.5, ankre: [[126,  222],  [318,  222],  [126,  222],  [318,  222]] },
+  { id: "ev-afspaerring", navn: "Afspærring med rødt reb", felter: [2, 1], skala: 0.5, ankre: [[222,  346],  [126,  346],  [222,  346],  [126,  346]] },
+  { id: "ev-balloner", navn: "Balloner", skala: 0.5, ankre: [[141,  443],  [141,  443],  [141,  443],  [141,  443]] },
+  { id: "ev-ballonbue", navn: "Ballonbue", felter: [2, 1], skala: 0.5, ankre: [[242,  512],  [146,  512],  [242,  512],  [146,  512]] },
+  { id: "ev-pokal", navn: "Pokal på marmorsokkel", skala: 0.5, ankre: [[126,  329],  [126,  329],  [126,  329],  [126,  329]] },
+  { id: "ev-stol", navn: "Guldstol", saede: 35, centrer: true, skala: 0.5, ankre: [[126,  283],  [126,  283],  [126,  283],  [126,  283]] },
+  { id: "ev-gaver", navn: "Præmiegaver", skala: 0.5, ankre: [[126,  237],  [126,  237],  [126,  237],  [126,  237]] },
+  { id: "ev-skilt", navn: "EVENT-skilt", skala: 0.5, ankre: [[126,  360],  [126,  360],  [126,  360],  [126,  360]] },
+  { id: "ev-talerstol", navn: "Talerstol", skala: 0.5, ankre: [[126,  352],  [126,  352],  [126,  352],  [126,  352]] },
+  { id: "ev-diskokugle", navn: "Diskokugle", skala: 0.5, ankre: [[126,  405],  [126,  405],  [126,  405],  [126,  405]] },
+  { id: "ev-konfettikanon", navn: "Konfettikanon", skala: 0.5, ankre: [[126,  344],  [126,  344],  [126,  344],  [126,  344]] },
+  { id: "ev-buffetbord", navn: "Buffetbord med kage", felter: [2, 1], skala: 0.5, ankre: [[222,  339],  [126,  339],  [222,  339],  [126,  339]] },
+  { id: "ev-cocktailbord", navn: "Ståbord", skala: 0.5, ankre: [[126,  329],  [126,  329],  [126,  329],  [126,  329]] },
+  { id: "ev-vip-sofa", navn: "VIP-sofa i guld", felter: [2, 1], saede: 33, centrer: true, skala: 0.5, ankre: [[222,  339],  [126,  339],  [222,  339],  [126,  339]] },
+  { id: "ev-vip-skilt", navn: "VIP-skilt", skala: 0.5, ankre: [[126,  306],  [126,  306],  [126,  306],  [126,  306]] },
+  { id: "ev-trommer", navn: "Trommesæt", skala: 0.5, ankre: [[141,  321],  [141,  321],  [141,  321],  [141,  321]] },
+  { id: "ev-guitar", navn: "Guitar på stativ", skala: 0.5, ankre: [[126,  344],  [126,  344],  [126,  344],  [126,  344]] },
+  { id: "ev-forstaerker", navn: "Forstærker", skala: 0.5, ankre: [[126,  245],  [126,  245],  [126,  245],  [126,  245]] },
+  { id: "ev-scoretavle", navn: "Pointtavle", felter: [2, 1], skala: 0.5, ankre: [[222,  446],  [126,  446],  [222,  446],  [126,  446]] },
+  { id: "ev-kamera", navn: "Videokamera", skala: 0.5, ankre: [[126,  329],  [126,  329],  [126,  329],  [126,  329]] },
+  { id: "ev-blomster", navn: "Blomster i guldurne", skala: 0.5, ankre: [[126,  283],  [126,  283],  [126,  283],  [126,  283]] },
+  { id: "ev-fotovaeg", navn: "Fotovæg HELLO VERA", felter: [2, 1], skala: 0.5, ankre: [[222,  484],  [126,  484],  [222,  484],  [126,  484]] },
+  { id: "ev-medaljebord", navn: "Bord med medaljer", skala: 0.5, ankre: [[126,  222],  [126,  222],  [126,  222],  [126,  222]] },
+];
+STAFF_TYPER.forEach(function (t) {
+  if (MOEBEL_TYPER[t.id]) return;
+  t.retninger = [0, 1, 2, 3].map(function (i) { return "billeder/moebler/" + t.id + "/" + t.id + "-" + i + ".png?r=1"; });
+  t.kategori = STAFF_KAT;
+  t.staff = true;
+  MOEBLER.push(t);
+  MOEBEL_TYPER[t.id] = t;
+  forberedRetninger(t);
+});
+
+// Er du staff? (ejeren altid, ellers alle med et ansat-skilt, se js/eventrum.js)
+function erStaff() {
+  if (typeof EJERE !== "undefined" && EJERE.indexOf(FIGUR.navn) >= 0) return true;
+  return typeof erAnsat === "function" && erAnsat(FIGUR.navn);
+}
+
+// ----- Gratis for staff -----
+const prisFoerStaff = pris;
+pris = function (type) {
+  if (type && type.staff) return { stella: false, beloeb: 0 };
+  return prisFoerStaff(type);
+};
+const prisHtmlFoerStaff = prisHtml;
+prisHtml = function (p) {
+  if (p && !p.stella && p.beloeb === 0) return "Gratis";
+  return prisHtmlFoerStaff(p);
+};
+
+// ----- Kategorien i Shoppen (kun for staff) -----
+const STAFF_SHOP_KAT = { navn: "Staff", ikon: "🎪", ting: STAFF_TYPER.map(function (t) { return MOEBEL_TYPER[t.id]; }) };
+function staffKatIShop() {
+  if (typeof SHOP_KAT === "undefined") return;
+  const i = SHOP_KAT.indexOf(STAFF_SHOP_KAT);
+  if (erStaff()) { if (i < 0) SHOP_KAT.push(STAFF_SHOP_KAT); }
+  else {
+    if (i >= 0) SHOP_KAT.splice(i, 1);
+    if (shopKat === STAFF_SHOP_KAT) shopKat = SHOP_KAT[0];
+    if (shopValgt && shopValgt.staff) shopValgt = null;
+  }
+}
+const visShopFoerStaff = visShop;
+visShop = function () {
+  staffKatIShop();
+  visShopFoerStaff();
+  visStilHer();
+};
+
+// "🔨 Stil her": sæt staff-møblet direkte i det rum, du står i
+const stilHerKnap = document.createElement("button");
+stilHerKnap.type = "button";
+stilHerKnap.id = "shop-stil-her";
+stilHerKnap.textContent = "🔨 Stil her";
+stilHerKnap.title = "Sæt møblet direkte i det rum, du står i";
+stilHerKnap.hidden = true;
+stilHerKnap.style.marginTop = "6px";
+const koebKnapStaff = document.getElementById("shop-koeb");
+if (koebKnapStaff) koebKnapStaff.after(stilHerKnap);
+function maaStilleHer() {
+  if (typeof iFaellesRum === "function" && iFaellesRum()) return typeof kanBygge === "function" ? kanBygge() : false;
+  return rumValg === "vaerelse";      // dine egne rum
+}
+function visStilHer() {
+  stilHerKnap.hidden = !(shopFane === "moebler" && shopValgt && shopValgt.staff && erStaff() && maaStilleHer());
+}
+stilHerKnap.addEventListener("click", function () {
+  if (!shopValgt || !shopValgt.staff || !erStaff() || !maaStilleHer()) return;
+  valgtType = shopValgt.id;
+  valgtMoebel = null;
+  shopVindue.hidden = true;
+  opdaterPanel();
+});
+
+// ----- Fanen "Staff" i møbelpanelet -----
+(function () {
+  if (typeof faneBoks === "undefined" || typeof knapBoks === "undefined") return;
+  const fane = document.createElement("button");
+  fane.textContent = STAFF_KAT;
+  fane.hidden = true;
+  fane.addEventListener("click", function () { visKategori(STAFF_KAT); });
+  faneBoks.appendChild(fane);
+  const knapper = [];
+  STAFF_TYPER.forEach(function (t) {
+    const type = MOEBEL_TYPER[t.id];
+    const knap = document.createElement("button");
+    knap.className = "moebel-knap";
+    knap.dataset.id = type.id;
+    knap.dataset.kategori = STAFF_KAT;
+    knap.hidden = true;
+    const ikon = document.createElement("canvas");
+    ikon.width = 64; ikon.height = 70;
+    ikoner.push({ ikon: ikon, type: type });
+    const navn = document.createElement("span");
+    navn.textContent = type.navn;
+    knap.append(ikon, navn);
+    knap.addEventListener("click", function () {
+      if (!erStaff()) return;
+      valgtType = valgtType === type.id ? null : type.id;
+      valgtMoebel = null;
+      opdaterPanel();
+    });
+    knapBoks.appendChild(knap);
+    knapper.push(knap);
+  });
+  if (typeof tegnIkoner === "function") setTimeout(tegnIkoner, 800);
+  let var_ = null;
+  function tjek() {
+    const s = erStaff();
+    if (s === var_) return;
+    var_ = s;
+    fane.hidden = !s;
+    if (!s) {
+      knapper.forEach(function (k) { k.hidden = true; });
+      if (valgtKategori === STAFF_KAT) visKategori(KATEGORIER[0]);
+      if (valgtType && MOEBEL_TYPER[valgtType] && MOEBEL_TYPER[valgtType].staff) { valgtType = null; opdaterPanel(); }
+    } else if (valgtKategori === STAFF_KAT) visKategori(STAFF_KAT);
+  }
+  tjek();
+  setInterval(tjek, 1000);
+})();

diff --git a/js/kun-elevator.js b/js/kun-elevator.js
@@ -1,0 +1,46 @@
+// =============================================================
+//  🛗 Kun elevator i de fælles rum (5/11)
+//  Velkomsthallen og event-rummene har ingen døre mere.
+//  Man kommer og går med elevatoren (dit værelse ligger under
+//  "🏢 Lejlighederne" i elevatoren, eller tryk på knappen i panelet).
+//  Dørene ved lejlighederne på gangene er der stadig.
+//  Hentes fra slutningen af js/panel-forklaring.js.
+// =============================================================
+(function () {
+  // event-rummene: ingen dør
+  if (typeof EVENT_RUM !== "undefined") EVENT_RUM.forEach(function (r) { r.doer = null; });
+  if (typeof INDBYGGEDE_RUM !== "undefined" && rumValg === "vaerelse" && INDBYGGEDE_RUM[aktivtVaerelse] && INDBYGGEDE_RUM[aktivtVaerelse].event) RUM.doer = null;
+
+  // hallen: døren kan ikke klikkes, og man går ikke ud ad den
+  halOverDoer = function () { return false; };
+  HAL_DOER.felt = { x: -99, y: -99 };
+
+  // hallens vægge tegnes uden døren og skiltet over den (elevatoren tegnes stadig)
+  tegnHalVaegge = function () {
+    halVaeg(punkt(0, RUM.dybde), punkt(0, 0), RUM.dybde, true);
+    halVaeg(punkt(0, 0), punkt(RUM.bredde, 0), RUM.bredde, false);
+    if (typeof tegnElevator === "function") tegnElevator();
+  };
+
+  // man kommer ind foran elevatoren
+  function vedElevatoren() {
+    if (typeof ELEVATOR === "undefined" || typeof elevatorRum !== "function" || !elevatorRum()) return;
+    const offentlig = rumValg === "hal" || (INDBYGGEDE_RUM[aktivtVaerelse] && INDBYGGEDE_RUM[aktivtVaerelse].event);
+    if (!offentlig) return;
+    const x = ELEVATOR.felt.x + 1, y = ELEVATOR.felt.y;
+    if (erIRummet(x, y)) { figur.x = x; figur.y = y; figur.retning = "ned-hoejre"; }
+  }
+  function nyVelkomst() {
+    if (rumValg === "hal" && typeof besked !== "undefined" && besked && /døren/.test(besked.textContent)) {
+      besked.textContent = "Velkommen til HELLO VERA! Tag elevatoren 🛗 for at komme rundt i hotellet.";
+    }
+  }
+  const skiftRumFoerKunElev = skiftRum;
+  skiftRum = function (navn) {
+    skiftRumFoerKunElev(navn);
+    vedElevatoren();
+    nyVelkomst();
+  };
+  if (rumValg === "hal" && typeof figur !== "undefined" && figur.x === 11 && figur.y === 1) vedElevatoren();
+  nyVelkomst();
+})();

diff --git a/js/panel-forklaring.js b/js/panel-forklaring.js
@@ -301,3 +301,19 @@ document.head.appendChild(forklaringStil);
   s.src = "js/toej-rigtigt.js?t=" + Date.now();   // hentes altid frisk
   document.body.appendChild(s);
 })();
+
+// 🛗 Kun elevator i de fælles rum (js/kun-elevator.js): ingen døre i hallen og event-rummene.
+(function () {
+  if (document.querySelector("script[src^='js/kun-elevator.js']")) return;
+  const s = document.createElement("script");
+  s.src = "js/kun-elevator.js?t=" + Date.now();   // hentes altid frisk
+  document.body.appendChild(s);
+})();
+
+// 🎪 Staff-møbler til events (js/staff-moebler.js): gratis kategori kun for staff og ejeren.
+(function () {
+  if (document.querySelector("script[src^='js/staff-moebler.js']")) return;
+  const s = document.createElement("script");
+  s.src = "js/staff-moebler.js?t=" + Date.now();   // hentes altid frisk
+  document.body.appendChild(s);
+})();
